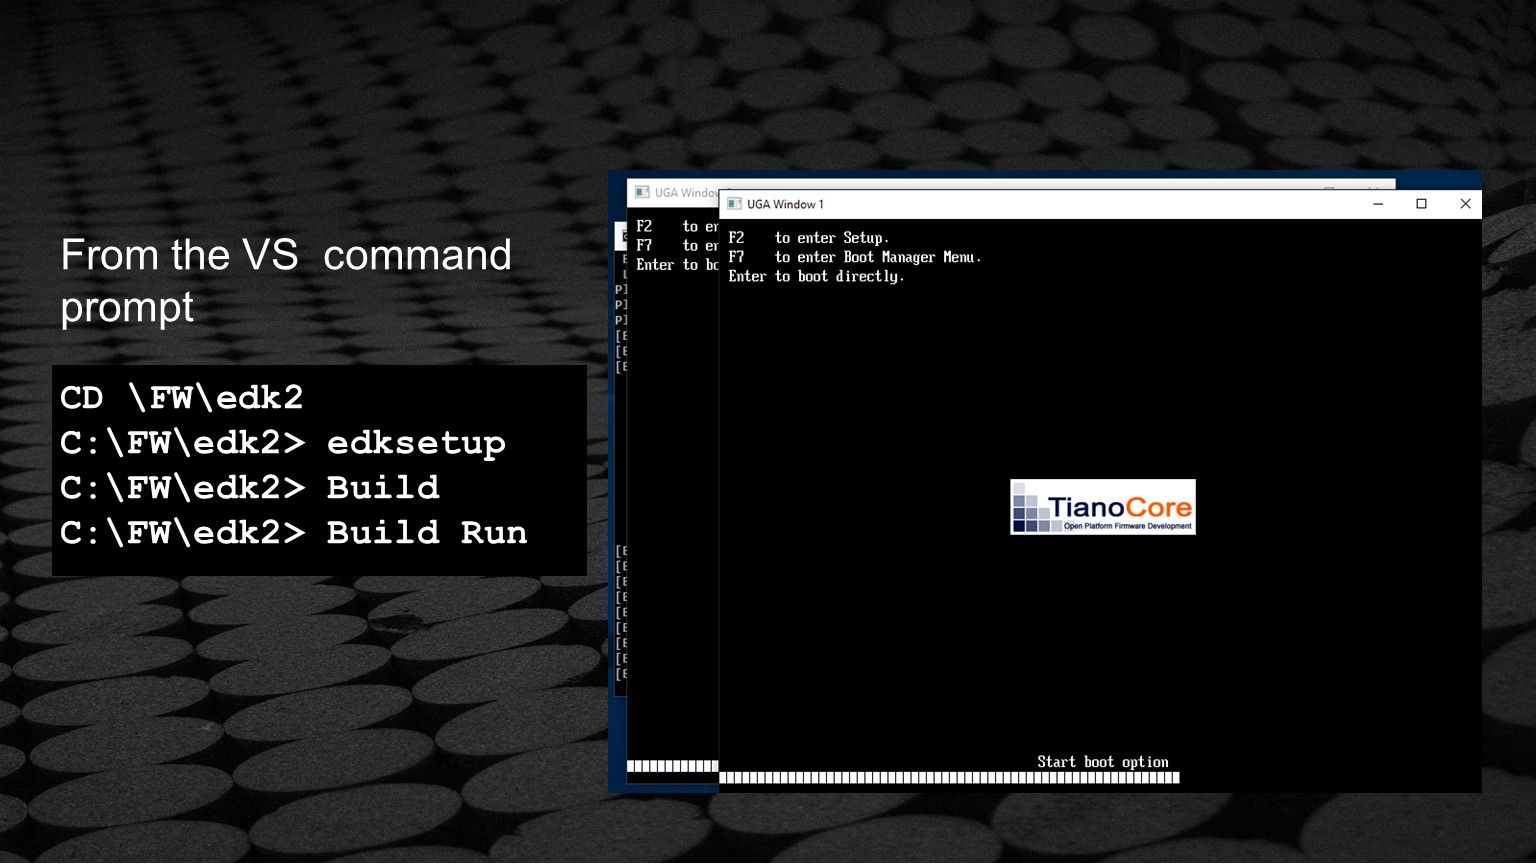
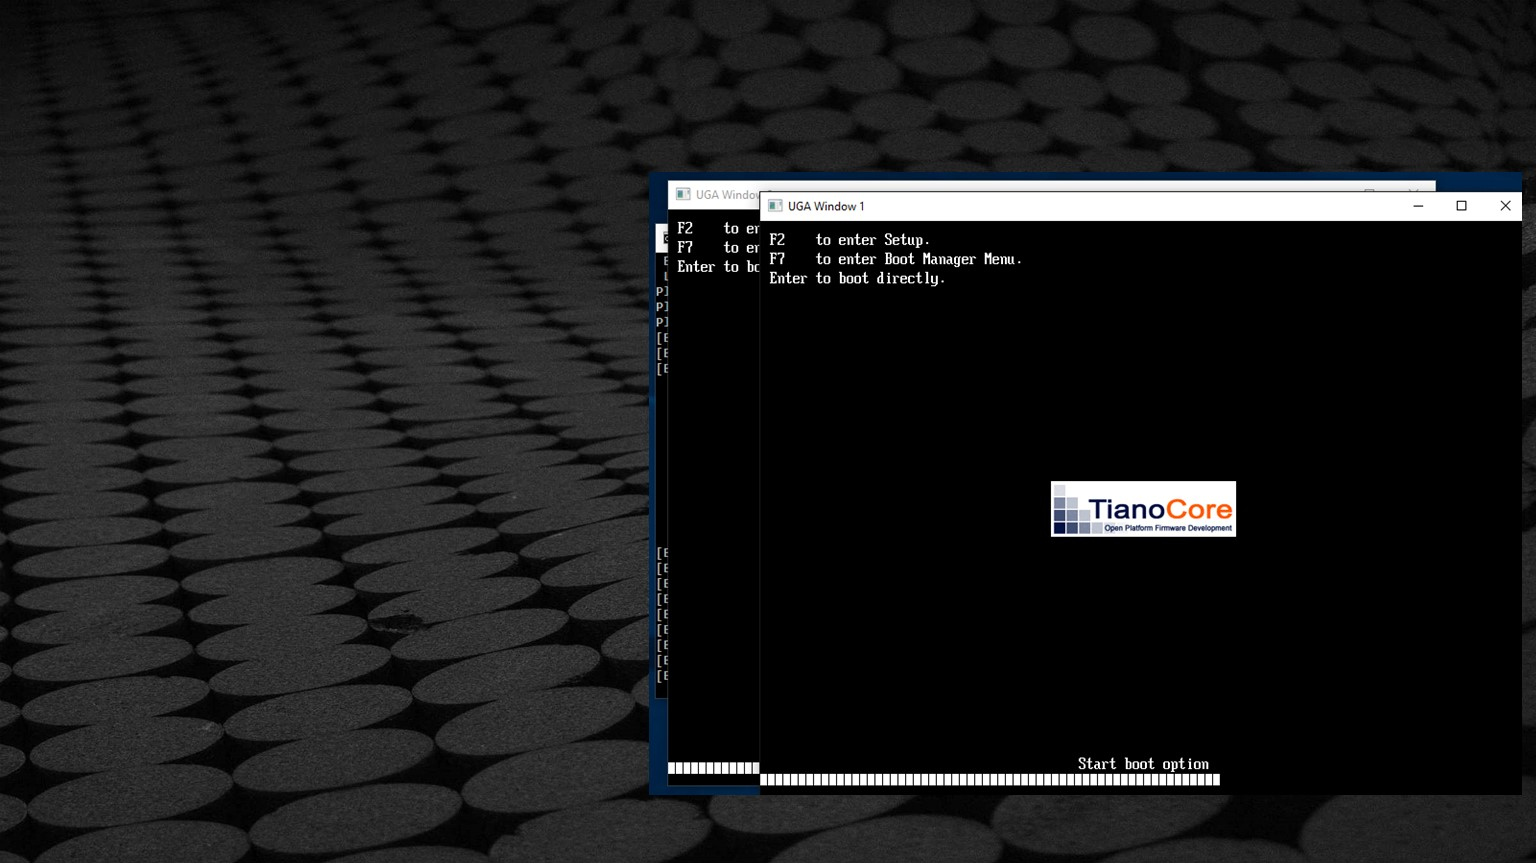
Signed-off-by: Laurie0131 <laurie.jarlstrom@intel.com>

diff --git a/assets/css/PITCHME.css b/assets/css/PITCHME.css
@@ -23,12 +23,14 @@ html:-moz-full-screen-ancestor {
   color: #BF5122;
     text-align: center; 
   text-align: top;
+    font-weight: bold;
 }
 
 .gold {
   color: #e49436;
     text-align: center; 
   text-align: top;
+     font-weight: bold;
 }
 
 .gray {
@@ -107,6 +109,35 @@ span.aside {
   word-wrap: break-word;
   display: block;
 }
+
+
+
+.reveal div.left-2 {
+    float: left;
+    z-index: -10;
+    width: 20%;
+}
+
+.reveal div.right-2 {
+    float: right;
+    z-index: -10;
+    width: 80%;
+}
+
+
+.reveal div.left-1 {
+    float: left;
+    z-index: -10;
+    width: 30%;
+}
+
+.reveal div.right-1 {
+    float: right;
+    z-index: -10;
+    width: 70%;
+}
+
+
 
 .reveal div.left {
     float: left;
@@ -193,6 +224,21 @@ span.aside {
   margin-left: 10px; 
 }
 
+
+.gp-bullet-orange { 
+  color:#d85821;
+  margin-left: 10px; 
+}
+  
+.gp-bullet-blue { 
+  color:#4487f2;
+  margin-left: 10px; 
+}  
+  
+.gp-bullet-purple { 
+  color:#643885;
+  margin-left: 10px; 
+}  
 .gp-bullet-cyan { 
   color:#00FFFF;
   margin-left: 10px; 
@@ -276,8 +322,54 @@ table#recTable{width:100%; border:1px solid gray;}
 #recTable tr td {height:0.2px; border:1px solid gray;}
 
 
+/* the following are for Back ground colors for using the boxes widget from gitpitch */
 
+.bg-cyan {   background: #00FFFF !important; }
 
+/* #643885 puple gp */
+.bg-purple-pp { background: #7030a0 !important; }
+.bg-magenta { background: #ff00ff !important; }
+.bg-red-pp { background: #a80000 !important; }
+/*#e71e60 pink gp */
 
+/*#f26225 orange gp */
+.bg-brick { background: #BF5122 !important; }
+.bg-lt-orange { background: #e49436 !important; }
+.bg-gold2 { background: #FFC000 !important; }
+.bg-lt-gold { background: #ffda00 !important; }
+.bg-yellow-pp { background: #ffff00 !important; }
+.bg-cream  { background: #FFFF99 !important; }
 
+.bg-lt-orange-trans { background:rgba(228,148,54,0.9)!important; }
+
+/* yellow gp # 245 219 46  #f5db25
+*/
+
+/*#4487f2 blue gp
+*/
+.bg-lt-blue-pp { background: #00b0f0 !important; }
+.bg-blue-pp { background: #0070C0 !important; }
+.bg-royal { background: #0558ff !important; }
+.bg-navy { background: #002060 !important; }
+
+.bg-blue-trans { background:rgba(68,135,242,0.9) !important; }
+
+/* Green gp #8eA3b3
+*/
+.bg-green-pp { background: #92d050 !important; }
+.bg-green2   { background: #00b050 !important; }
+
+.bg-white { background: #ffffff!important; }
+
+.bg-grey-100 { background: #FFFFFF!important; }
+.bg-grey-90  { background: #F2f2f2!important; }
+.bg-grey-85  { background: #d9d9d9!important; }
+.bg-grey-75  { background: #bfbfbf!important; }
+.bg-grey-65  { background: #a6a6a6!important; }
+.bg-grey-50  { background: #7f7f7f!important; }
+.bg-grey-35  { background: #595959!important; }
+.bg-grey-25  { background: #404040!important; }
+.bg-grey-15  { background: #262626!important; }
+.bg-grey-05  { background: #0d0d0d!important; }
+.bg-grey-00  { background: #000000!important; }
 

diff --git a/PITCHME.md b/PITCHME.md
@@ -61,17 +61,22 @@ Note:
 
 ---?image=/assets/images/slides/Slide4.JPG
 @title[Running Nt32]
-<p align="right"><span class="gold" >Invoke NT32 Emulation</span></p>
+<p align="right"><span class="gold" ><b>Invoke NT32 Emulation</b></span></p>
+@snap[north-west span-35]
 <br>
 <br>
 <br>
-<br>
-<br>
-<br>
-<br>
-<br>
-<br>
-<span style="font-size:0.5em" ></span>
+From the VS command Prompt
+<pre>
+```
+ CD \FW\edk2
+ C:\FW\edk2> edksetup
+ C:\FW\edk2> Build 
+ C:\FW\edk2> Build Run
+```
+</pre>
+
+@snapend
 
 
 Note:
@@ -89,7 +94,7 @@ Note:
 
 ---?image=/assets/images/slides/Slide5.JPG
 @title[Nt32 boot to UEFI Shell]
-<p align="right"><span class="gold" >Nt32 boot to UEFI Shell</span></p>
+<p align="right"><span class="gold" ><b>Nt32 boot to UEFI Shell</b></span></p>
 
 <br>
 <br>
@@ -117,16 +122,23 @@ Note:
 <span style="font-size:0.9em" > &nbsp;&nbsp;&nbsp;&nbsp;&nbsp;&nbsp;&nbsp;&nbsp;&nbsp;Commands from the Command Line Interface</span>
 
 
----?image=/assets/images/slides/Slide7.JPG
+---
 @title[Common Shell Commands ]
 ### <p align="right"><span class="gold" >Common Shell Commands For Debugging</span></p>
+@snap[west span-30]
+@box[bg-grey-05 text-white  rounded](<p align="left" style="line-height:80%"><span style="font-size:0.8em" >&nbsp; `help`<br>&nbsp;  `mm`<br>&nbsp; `mem`<br>&nbsp; `memmap`<br>&nbsp; `drivers`<br>&nbsp; `devices`<br>&nbsp; `devtree`<br>&nbsp; `dh`<br>&nbsp; `Load`<br>&nbsp; `dmpstore`<br>&nbsp; `stall`</span></p>)
+@snapend
 
+@snap[east span-65]
+@box[bg-royal text-white  rounded](<b>"-b" is the command line parameter for breaking after each page.</b><br>)
+@snapend
 
 Note:
 
 Next for this lab there are a few shell commands that will help us with debugging. For example if you are writing a driver, you would want to get familiar with these shell commands. Each of these commands will have a help option to give you further information about these commands.
 
 We are not going to go all were these in detail but just to make you aware of the shell commands.
+
 
 
 ---?image=/assets/images/slides/Slide8.JPG
